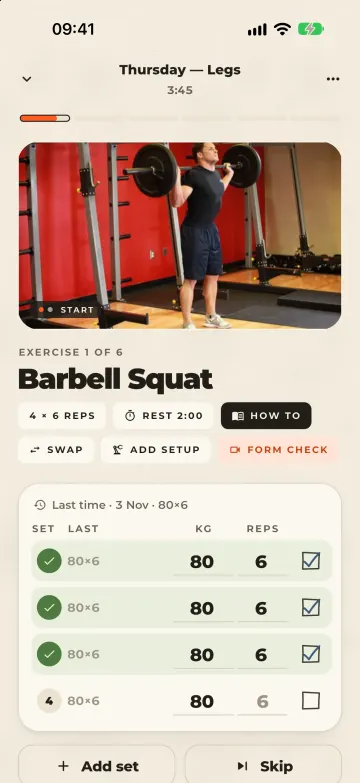
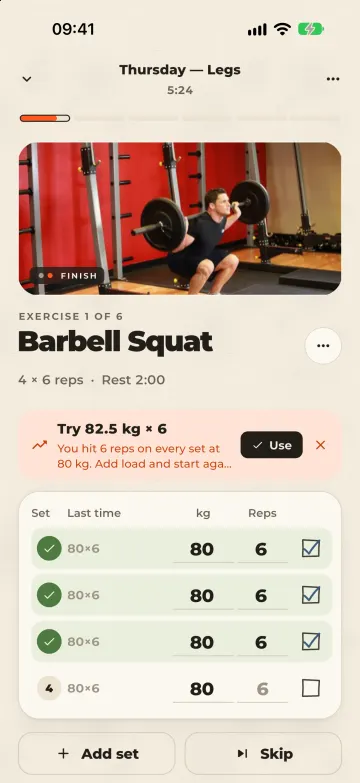
Show neFaRec's decluttered workout and new calendar
The workout's options now sit behind one ⋯ button, so the prototype opens an options sheet for How to, Swap and Form check. Today, the swap sheet, rest, Library and the redesigned calendar use the latest screens.

diff --git a/js/app-prototypes.js b/js/app-prototypes.js
@@ -163,7 +163,7 @@
         base: 'screenshots/device/nefarec/',
         island: true,
         start: '01-today',
-        chips: ['01-today', '02-paste', '04-review', '06-routines', '09-workout', '09b-workout-video', '13-rest-countdown', '14-rest-overtime', '15-hold-timer', '17-summary-receipt', '18-history-sessions', '19-history-progress', '21-history-calendar', '24-library', '25b-exercise-detail-video', '27-form-check', '28-settings'],
+        chips: ['01-today', '02-paste', '04-review', '06-routines', '09-workout', '09c-exercise-options', '09b-workout-video', '13-rest-countdown', '14-rest-overtime', '15-hold-timer', '17-summary-receipt', '18-history-sessions', '19-history-progress', '21-history-calendar', '24-library', '25b-exercise-detail-video', '27-form-check', '28-settings'],
         screens: {
             '01-today': {
                 label: 'Today',
@@ -226,10 +226,18 @@
                 label: 'Workout', back: '01-today',
                 hotspots: [
                     { id: 'minimise', label: 'Minimise the workout', to: 'back', x: 2, y: 7.5, w: 10, h: 5 },
-                    { id: 'how-to', label: 'How to', to: '10-how-to', t: 'sheet', x: 61, y: 51, w: 14, h: 4.5 },
-                    { id: 'swap', label: 'Swap exercise', to: '11-swap-sheet', t: 'sheet', x: 5, y: 55.5, w: 17, h: 4 },
-                    { id: 'form-check', label: 'Form check', to: '27-form-check', x: 61, y: 55.5, w: 34, h: 4.5 },
-                    { id: 'tick', label: 'Complete set 3', to: '13-rest-countdown', t: 'fade', x: 81, y: 80.5, w: 15, h: 6 }
+                    { id: 'options', label: 'Exercise options', to: '09c-exercise-options', t: 'sheet', x: 84, y: 41, w: 12, h: 6 },
+                    { id: 'tick', label: 'Complete set 3', to: '13-rest-countdown', t: 'fade', x: 81, y: 79, w: 15, h: 6 }
+                ]
+            },
+            '09c-exercise-options': {
+                label: 'Exercise options', sheetTop: 48, back: '09-workout',
+                hotspots: [
+                    { id: 'scrim', label: 'Close', to: 'back', x: 0, y: 0, w: 100, h: 47 },
+                    { id: 'close-options', label: 'Close', to: 'back', x: 84, y: 50.5, w: 12, h: 6 },
+                    { id: 'how-to', label: 'How to do it', to: '10-how-to', t: 'sheet', x: 5, y: 59.5, w: 90, h: 6.5 },
+                    { id: 'swap', label: 'Swap exercise', to: '11-swap-sheet', t: 'sheet', x: 5, y: 67, w: 90, h: 6.5 },
+                    { id: 'form-check', label: 'Form check', to: '27-form-check', x: 5, y: 81.5, w: 90, h: 6.5 }
                 ]
             },
             '09b-workout-video': {
@@ -291,8 +299,7 @@
             '21-history-calendar': {
                 label: 'Calendar',
                 hotspots: [
-                    { id: 'sessions', label: 'Sessions', to: '18-history-sessions', t: 'tab', x: 5, y: 5, w: 28, h: 5 },
-                    { id: 'progress', label: 'Progress', to: '19-history-progress', t: 'tab', x: 33, y: 5, w: 29, h: 5 },
+                    ...nefaHistory('calendar'),
                     ...nefaTabs('tab-history')
                 ]
             },
@@ -315,7 +322,7 @@
             },
             '29-account-profile': { label: 'Profile', back: '28-settings', hotspots: [nefaBack] }
         },
-        demo: ['resume', 'how-to', 'close', 'tick', 'wait', 'next-set', 'skip', 'stop', 'done', 'progress', 'calendar', 'tab-library', 'exercise'],
+        demo: ['resume', 'options', 'how-to', 'close', 'close-options', 'tick', 'wait', 'next-set', 'skip', 'stop', 'done', 'progress', 'calendar', 'tab-library', 'exercise'],
         preview: ['01-today', '09b-workout-video', '14-rest-overtime', '19-history-progress']
     };
 
